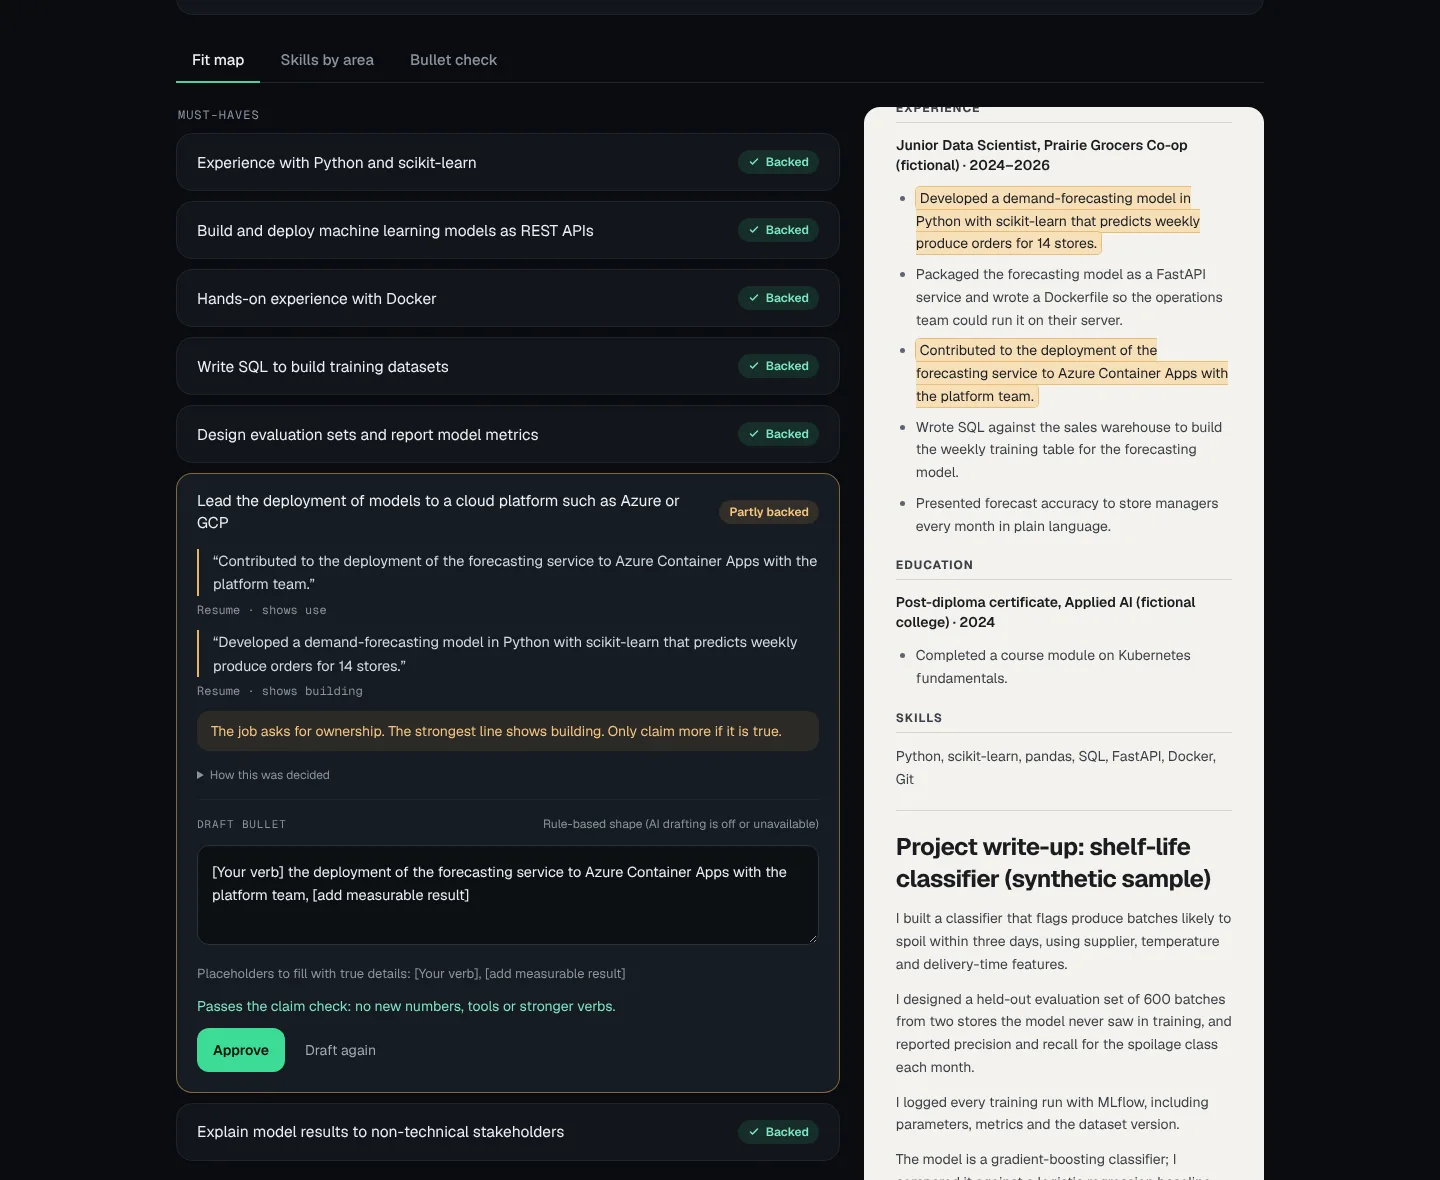
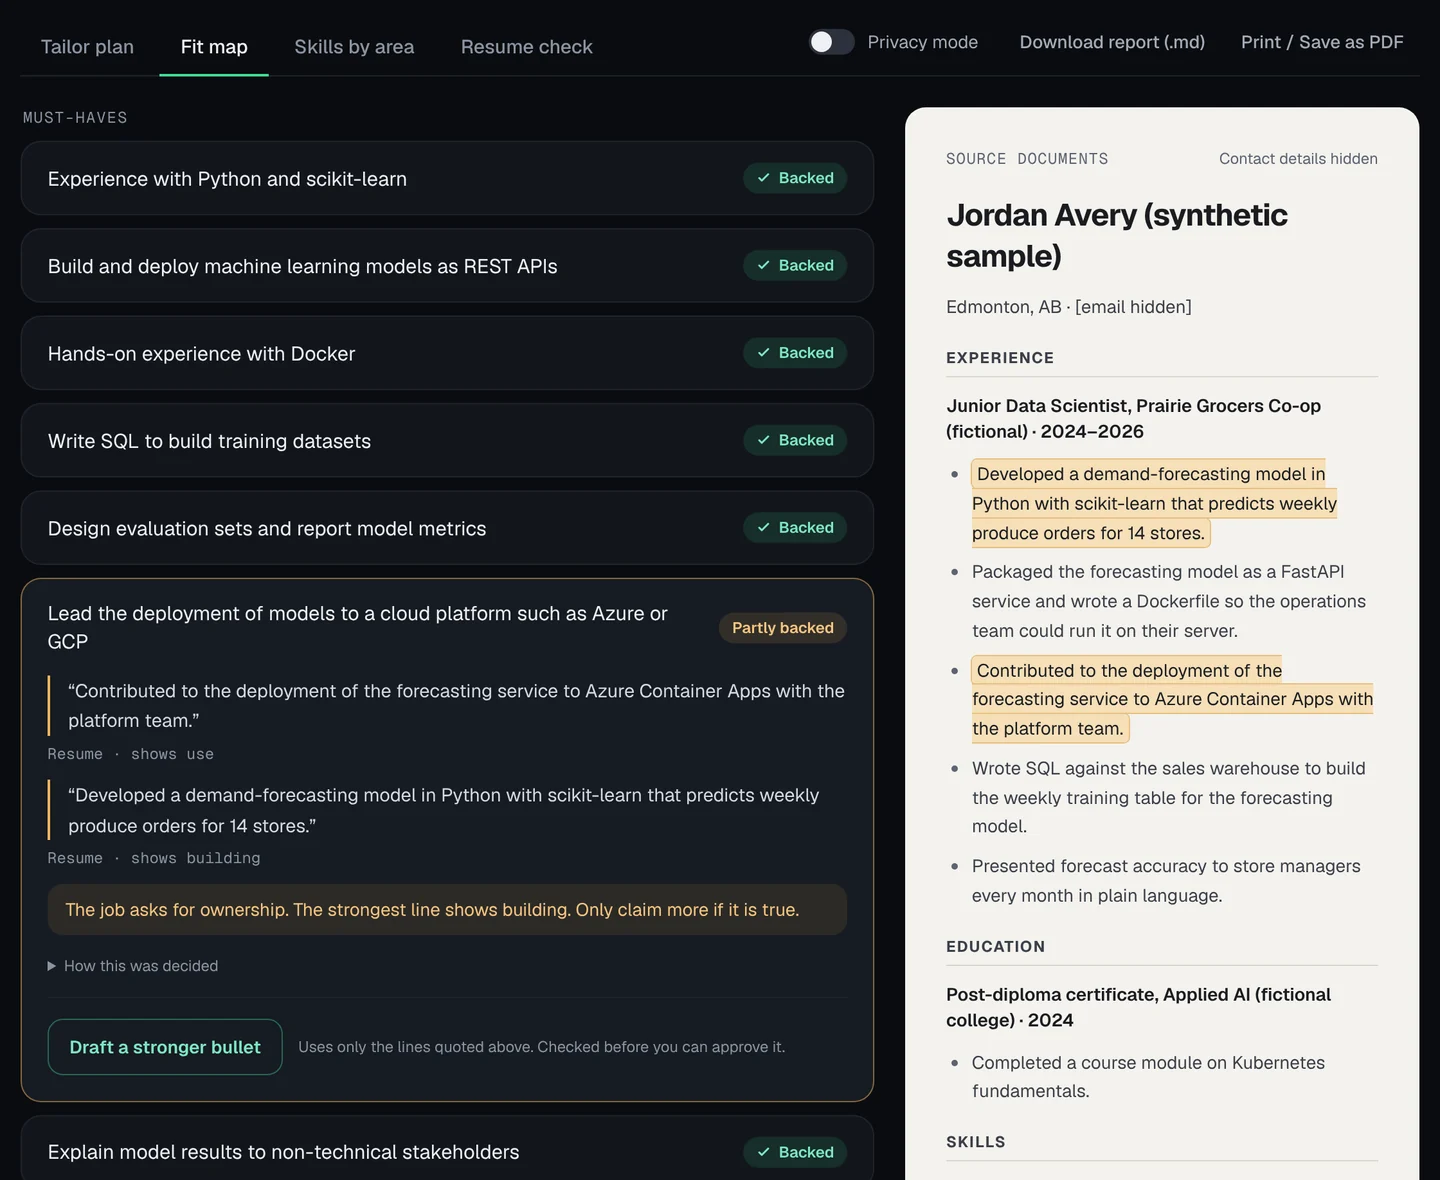
Correct ResumeIQ case study results and align it with other case studies

diff --git a/src/data/projects.js b/src/data/projects.js
@@ -420,7 +420,7 @@ export const projects = [
     description: 'Maps job requirements to exact resume passages, grades evidence strength, and checks drafted bullets for unsupported claims.',
     problem: 'Keyword overlap obscures weak evidence, and generated rewrites can exaggerate what a candidate did.',
     contribution: 'Built evidence matching, document parsing, optional Claude drafting, deterministic claim checks, and a Next.js workflow backed by FastAPI.',
-    outcome: 'Matcher v3 scored 0.77 macro-F1 on 34 synthetic held-out cases. Checker v3 blocked 20/20 overstated drafts and wrongly blocked 3/20 honest drafts on its holdout.',
+    outcome: 'Matcher v3 scored 0.77 macro-F1 on 34 synthetic held-out cases. Checker v3 blocked 20/20 overstated drafts and wrongly blocked 3/20 honest drafts on its holdout. In a live model run, an AI audit found no clearly overstated final bullet, while new synonyms still caused false alarms.',
     stack: ['Next.js', 'TypeScript', 'Python', 'FastAPI', 'Claude API', 'Cloud Run', 'Vercel', 'GitHub Actions'],
     features: ['PDF, DOCX & TXT parsing', 'Exact source citations', 'Evidence strength', 'Tailor plan', 'Edited-draft rechecks', 'Report export'],
     metrics: [

diff --git a/src/data/writing.js b/src/data/writing.js
@@ -71,7 +71,7 @@ export const writingItems = [
     slug: 'resume-intelligence-multi-signal',
     title: 'Why ResumeIQ Uses Multiple Signals Instead of One ATS Score',
     description: 'A product and responsible-AI explanation of parsing, classification, keyword and semantic matching, skill gaps, writing quality, privacy, and human review.',
-    meta: 'Published July 2026 · 8 min read',
+    meta: 'Published July 2026 · 8 min read · About ResumeIQ v0.9 (archived)',
     tags: ['NLP', 'Responsible AI', 'Product Design'],
     route: '/writing/resume-intelligence-multi-signal'
   },

diff --git a/README.md b/README.md
@@ -208,34 +208,25 @@ Verified v0.3.0 evidence:
 
 ### ResumeIQ
 
-**Privacy-Aware Resume Intelligence Platform**
+**Evidence-Grounded Resume Tailoring**
 
-An NLP decision-support system for resume analysis, job-description matching, skill intelligence, and structured reviewer workflows.
+Maps each job requirement to the exact resume passage that supports it, grades how strong that evidence is, and
+checks drafted bullets so they never claim more than the evidence shows.
 
-The project includes:
+- requirement extraction from untrusted job postings, with instruction-like lines removed and reported
+- evidence matching with exact citation offsets and evidence-strength grading (aware, used, built, owned)
+- tailor plan, resume checklist, privacy mode, and report export
+- PDF, DOCX, and TXT uploads read in memory, with contact details masked
+- optional Claude drafting behind a deterministic claim checker; edits require a fresh check before approval
+- versioned synthetic holdouts frozen before each version, plus audited live-model runs
+- Next.js on Vercel, FastAPI on Cloud Run, Secret Manager, GitHub Actions
 
-- PDF, DOCX, and TXT parsing
-- TF-IDF role classification
-- ATS-style compatibility signals
-- keyword matching
-- semantic similarity
-- skill normalization
-- skill-gap analysis
-- generic-sentence detection
-- rewrite guidance
-- batch ranking foundations
-- recruiter notes and shortlist workflows
-- privacy-safe display mode
-- FastAPI foundation
-- SQLAlchemy persistence
-- Docker Compose
-- GitHub Actions
-- Previous Azure demonstration; currently offline pending frontend migration
-
-ResumeIQ avoids presenting its baseline model as production-validated until leakage, split quality, class balance, calibration, and independent evaluation are completed.
+Matcher v3 scored 0.77 macro-F1 on 34 synthetic held-out cases. Claim checker v3 blocked 20/20 overstated drafts
+and wrongly blocked 3/20 honest drafts on its holdout. Labels are AI-drafted and the sets are small.
 
 [Case Study](https://chintanpatel.dev/case-studies/resumeiq) ·
-[Repository](https://github.com/chintan-02/smart-resume-classifier)
+[Live Demo](https://resumeiq-chintan.vercel.app/demo) ·
+[Repository](https://github.com/chintan-02/resumeiq)
 
 ---
 
